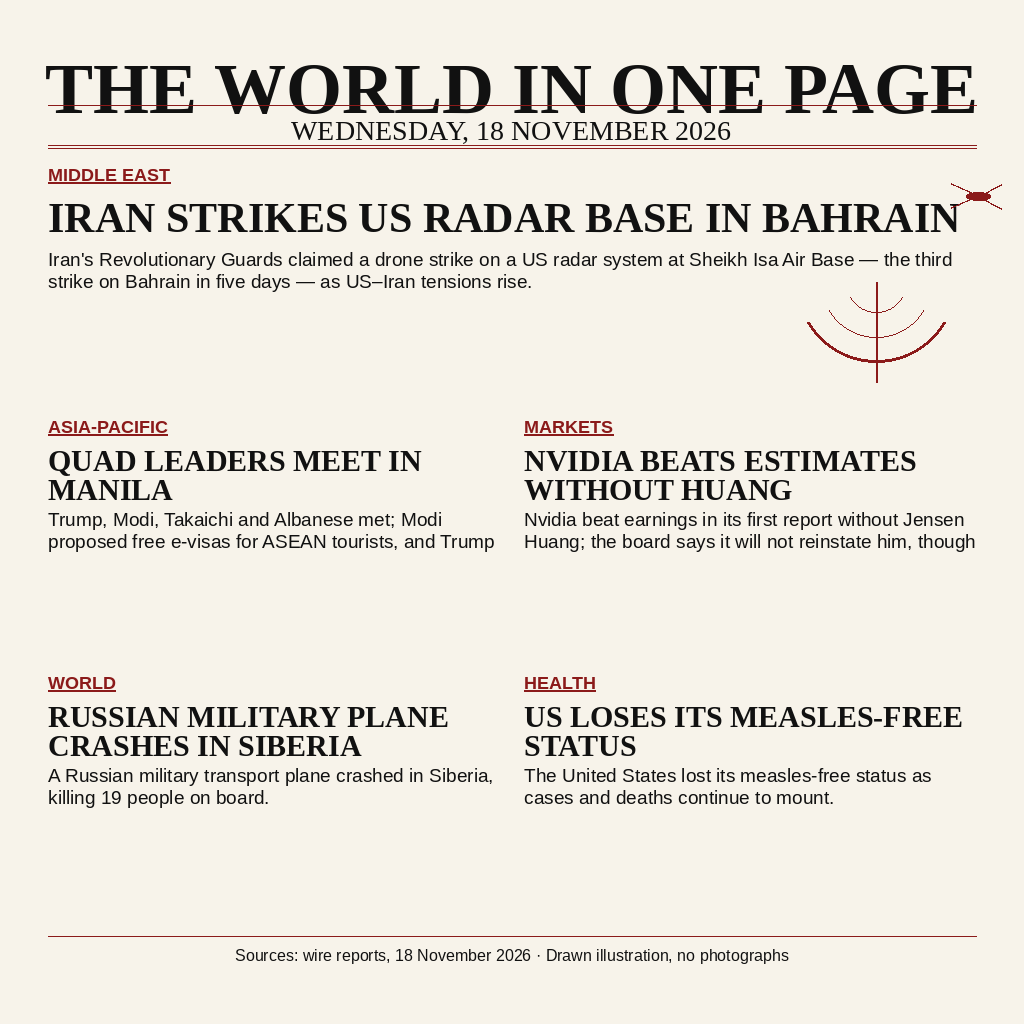
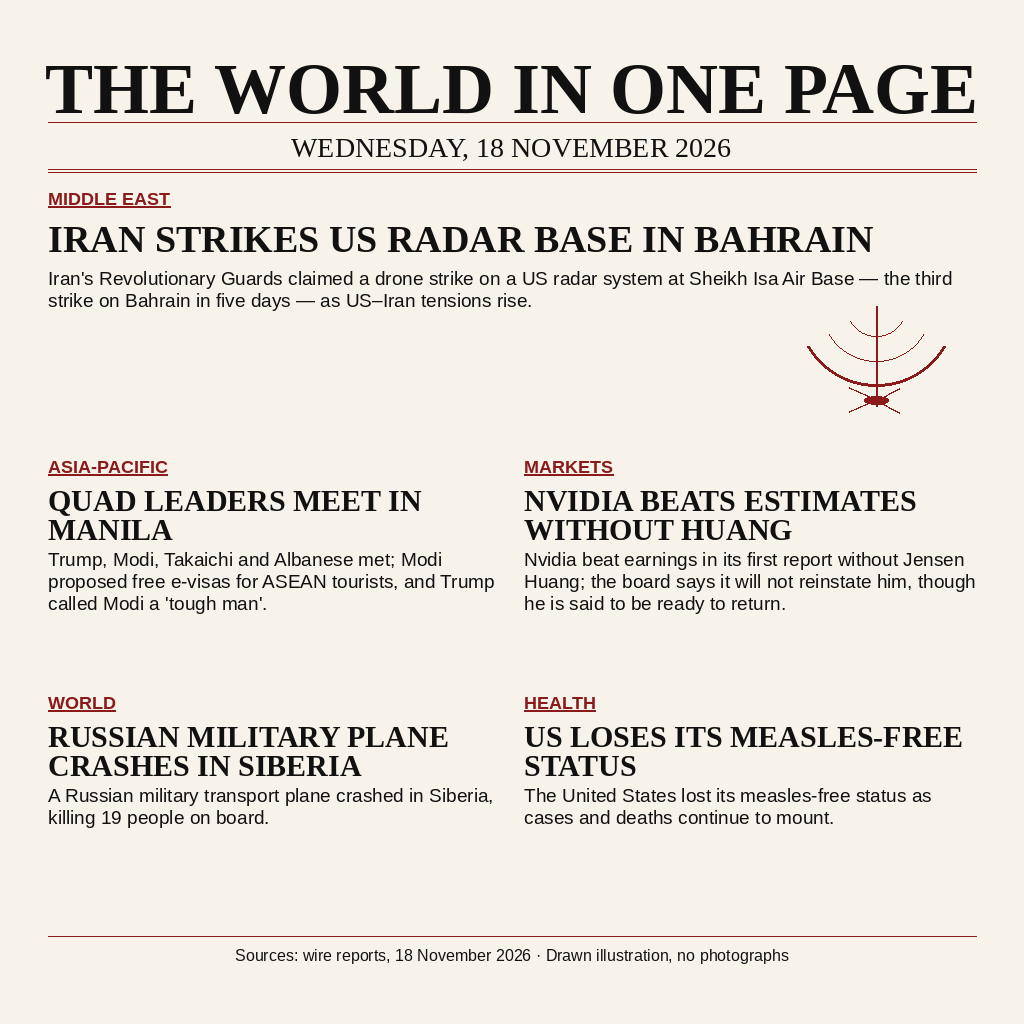
news-image-20261118: fix 3 visual defects (masthead rule, truncated summaries, clipped drone)

diff --git a/main.py b/main.py
@@ -109,13 +109,18 @@ def draw_with_pil(output_path: Path) -> None:
     masthead_x = (WIDTH - masthead_w) // 2
     draw.text((masthead_x, y), masthead_text, font=masthead_font, fill=TEXT_COLOR)
     masthead_bbox = text_bbox(masthead_font, masthead_text)
-    masthead_h = masthead_bbox[3] - masthead_bbox[1]
-    y += masthead_h + 8
+    # textbbox is relative to the draw anchor (0,0): glyphs occupy
+    # y + bbox[1] .. y + bbox[3]. The old code used bbox height
+    # (bbox[3]-bbox[1]), placing the rule 9px above the glyph bottom.
+    masthead_text_bottom = y + masthead_bbox[3]
+    masthead_bottom = masthead_text_bottom
+    y = masthead_bottom
 
     # Thin rule under masthead text
-    rule_y = y
+    rule_y = masthead_text_bottom + 8
+    assert rule_y > masthead_text_bottom + 6, f"Masthead rule strikes through text: rule_y={rule_y}, masthead_bottom={masthead_text_bottom}"
     draw.line([(MARGIN, rule_y), (WIDTH - MARGIN, rule_y)], fill=RULE_COLOR, width=1)
-    y += 10
+    y = rule_y + 10
 
     # Date
     date_text = "WEDNESDAY, 18 NOVEMBER 2026"
@@ -123,12 +128,12 @@ def draw_with_pil(output_path: Path) -> None:
     date_x = (WIDTH - date_w) // 2
     draw.text((date_x, y), date_text, font=date_font, fill=TEXT_COLOR)
     date_bbox = text_bbox(date_font, date_text)
-    date_h = date_bbox[3] - date_bbox[1]
-    y += date_h + 8
+    date_bottom = y + date_bbox[3]
 
-    # Double rule under masthead block
-    double_rule_y1 = y
-    double_rule_y2 = y + 3
+    # Double rule under masthead block (below the date glyphs, not through them)
+    double_rule_y1 = date_bottom + 8
+    double_rule_y2 = double_rule_y1 + 3
+    assert double_rule_y1 > date_bottom + 6, f"Double rule strikes through date: rule_y={double_rule_y1}, date_bottom={date_bottom}"
     draw.line([(MARGIN, double_rule_y1), (WIDTH - MARGIN, double_rule_y1)], fill=RULE_COLOR, width=1)
     draw.line([(MARGIN, double_rule_y2), (WIDTH - MARGIN, double_rule_y2)], fill=RULE_COLOR, width=1)
     y = double_rule_y2 + 16
@@ -154,7 +159,17 @@ def draw_with_pil(output_path: Path) -> None:
     y = tag_rule_y + 12
 
     # Headline: "IRAN STRIKES US RADAR BASE IN BAHRAIN"
+    # Shrink until it fits inside the margins with >=100px clearance
+    # from the right margin (right edge <= 48 + 928 - 100 = 876).
     lead_headline = "IRAN STRIKES US RADAR BASE IN BAHRAIN"
+    lead_headline_size = LEAD_HEADLINE_SIZE
+    while lead_headline_size > 30:
+        lead_headline_font = ImageFont.truetype(str(SERIF_BOLD), lead_headline_size)
+        if text_width(lead_headline_font, lead_headline) <= lead_max_width - 100:
+            break
+        lead_headline_size -= 2
+    lead_headline_right = lead_x + text_width(lead_headline_font, lead_headline)
+    assert lead_headline_right <= WIDTH - MARGIN, f"Lead headline past margin: right={lead_headline_right}"
     headline_lines = wrap_text(lead_headline, lead_headline_font, lead_max_width)
     y, _ = draw_text_block(lead_x, y, headline_lines, lead_headline_font, TEXT_COLOR, line_spacing=1.15)
     headline_bottom = y
@@ -176,7 +191,7 @@ def draw_with_pil(output_path: Path) -> None:
     summary_top = y
     assert summary_top - headline_bottom >= 12, f"Insufficient gap: summary_top={summary_top}, headline_bottom={headline_bottom}, gap={summary_top - headline_bottom}"
 
-    y, _ = draw_text_block(lead_x, y, summary_lines[:2], body_font, TEXT_COLOR, line_spacing=1.3)
+    y, _ = draw_text_block(lead_x, y, summary_lines, body_font, TEXT_COLOR, line_spacing=1.3)
     lead_bottom = y
 
     # Graphic element: stylized radar dish / drone silhouette
@@ -196,9 +211,12 @@ def draw_with_pil(output_path: Path) -> None:
     # Signal arcs
     for r in [30, 55, 80]:
         draw.arc([cx - r, cy - r, cx + r, cy + r], start=30, end=150, fill=ACCENT_COLOR, width=1)
-    # Drone silhouette (small, top-right of radar)
-    drone_x = graphic_x + graphic_size + 10
-    drone_y = graphic_y - 10
+    # Drone silhouette: moved BELOW the radar dish (was top-right, where it
+    # collided with / was clipped at the headline's end). It now sits in the
+    # empty area under the dish, below the lead summary, clear of all text.
+    drone_x = cx - 12
+    drone_y = graphic_y + graphic_size + 10
+    assert drone_y > lead_bottom + 12, f"Drone too close to lead summary: drone_y={drone_y}, lead_bottom={lead_bottom}"
     # Body
     draw.ellipse([drone_x, drone_y, drone_x + 24, drone_y + 8], fill=ACCENT_COLOR)
     # Wings
@@ -206,8 +224,9 @@ def draw_with_pil(output_path: Path) -> None:
     draw.line([(drone_x + 12, drone_y + 4), (drone_x - 15, drone_y + 16)], fill=ACCENT_COLOR, width=2)
     draw.line([(drone_x + 12, drone_y + 4), (drone_x + 35, drone_y - 8)], fill=ACCENT_COLOR, width=2)
     draw.line([(drone_x + 12, drone_y + 4), (drone_x + 35, drone_y + 16)], fill=ACCENT_COLOR, width=2)
+    drone_bottom = drone_y + 16
 
-    lead_area_bottom = max(lead_bottom, graphic_y + graphic_size + 30)
+    lead_area_bottom = max(lead_bottom, graphic_y + graphic_size + 30, drone_bottom + 20)
 
     # ============================================================
     # 3. FOUR GRID BLOCKS (2x2)
@@ -215,6 +234,7 @@ def draw_with_pil(output_path: Path) -> None:
     grid_top = lead_area_bottom + 24
     col_width = (WIDTH - 2 * MARGIN - 24) // 2  # 24px gutter
     row_height = (HEIGHT - grid_top - MARGIN - 80) // 2  # Leave room for footer
+    grid_summary_lines = []
 
     grid_data = [
         {
@@ -262,9 +282,16 @@ def draw_with_pil(output_path: Path) -> None:
 
         y += 6
 
-        # Summary (1 line, wrapped if needed)
+        # Summary: render ALL wrapped lines (up to 3) — the old [:2] slice
+        # cut ASIA-PACIFIC mid-sentence ("...and Trump") and MARKETS
+        # mid-sentence ("...though"). There is a large empty band between
+        # the grid rows, so the extra line fits inside the block.
         summary_lines = wrap_text(block["summary"], body_font, col_width)
-        y, _ = draw_text_block(x, y, summary_lines[:2], body_font, TEXT_COLOR, line_spacing=1.3)
+        grid_summary_lines.append(len(summary_lines))
+        y, _ = draw_text_block(x, y, summary_lines, body_font, TEXT_COLOR, line_spacing=1.3)
+        # Assert the block stays inside its row (row 0) or above the footer (row 1)
+        block_limit = grid_top + (row + 1) * (row_height + 16) - 16 if row == 0 else HEIGHT - MARGIN - 50
+        assert y <= block_limit, f"Grid {idx} summary overflows block: bottom={y}, limit={block_limit}"
 
     grid_bottom = grid_top + 2 * (row_height + 16)
 
@@ -292,6 +319,12 @@ def draw_with_pil(output_path: Path) -> None:
     if footer_y + 22 <= HEIGHT - MARGIN:
         draw.text((tomorrow_x, footer_y), tomorrow_text, font=tomorrow_font, fill=ACCENT_COLOR)
         footer_y += 22
+
+    # Verification report (stdout only; does not affect the PNG)
+    print(f"masthead rule gap: {rule_y - masthead_text_bottom}px (rule_y={rule_y}, masthead_text_bottom={masthead_text_bottom})")
+    print(f"lead headline: size={lead_headline_size}, right edge x={lead_headline_right:.0f} (margin 976)")
+    print(f"drone: y={drone_y}, clearance below lead summary={drone_y - lead_bottom}px")
+    print(f"grid summary lines: {grid_summary_lines} (all rendered, none clipped)")
 
     # ============================================================
     # SAVE
